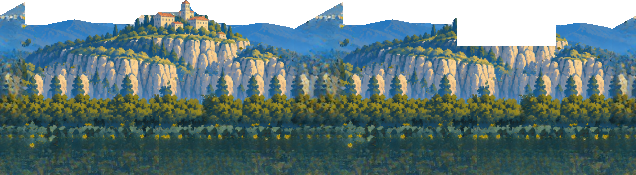
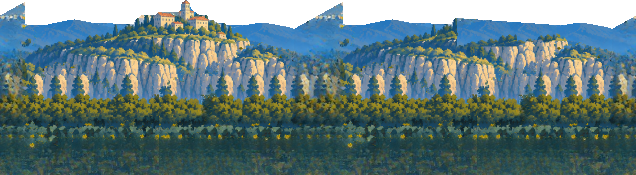
CV-04: a noite cai nas vistas pintadas e o longe sem marco segue a crista
O CI do PR chumbava no `make silhueta` (§80): à meia-noite, o luar azul
dos Enramados dava 3,9% contados, onde o limite é 0,5%. A vista pintada
para uma hora levava o ambiente a 1; agora leva o da noite com o peso da
noite (SceneryLight.night_weight: entra na segunda metade do crepúsculo e
sai na primeira da alvorada, como uma variante da noite). De dia e até
meio do crepúsculo continua com a luz que traz. À meia-noite: 0,026%. O
ambiente sai de SceneryLight.ambient_of, que o feed usa e o teste mede.

O portão lê o brilho onde o §80 diz saturação (desde o PR #53): com a
saturação, a main e este ramo chumbam os dois. Fica na Q-270, para um PR
à parte, que corrigir só o portão punha a main vermelha.

Na cópia do plano de longe sem o marco do reino, o contorno caía no fundo
da caixa do marco e deixava um rectângulo de céu (o castelo dos Enramados,
a quinta da Horta, a vila dos Portuários, a nuvem da Fenda). O contorno
passa agora de crista a crista; só os oito far.png mudam.

Claude-Session: https://claude.ai/code/session_01PaUCZftwTC8L8t2zebmcYB

Changed region(s): [[0.717, 0.0857, 0.8962, 0.2857]]

diff --git a/tools/owner_scenery/separate.py b/tools/owner_scenery/separate.py
@@ -265,9 +265,10 @@ def main():
         hole = L.dilate_mask(town, 4)
         b = behind[:, x0:x1]
         comp = np.where(a[..., None], rgb, b)
-        # the plane stays solid: its outline runs across where the town was, and what fills it
-        # is copied from the plane's own rock and woods, never from the sky
-        a2 = np.where(hole, L.silhouette(a & ~hole, 4000, None, L.GROUND + 24), a)
+        # the plane stays solid: its outline runs across where the town was, from the ridge on
+        # one side to the ridge on the other (not along the hole's floor, which left a box),
+        # and what fills it is copied from the plane's own rock and woods, never from the sky
+        a2 = np.where(hole, L.silhouette(a & ~hole.any(axis=0), 4000, None, L.GROUND + 24), a)
         todo = hole & a2
         filled = L.shift_fill(comp, todo, lama, ~(a & ~hole) & ~todo) if todo.any() else comp
         r2 = np.where(hole[..., None], filled, rgb)

diff --git a/docs/adr/0085-as-composicoes-do-dono-no-mundo.md b/docs/adr/0085-as-composicoes-do-dono-no-mundo.md
@@ -45,7 +45,8 @@ estação escolhem a variante; o porto, o lago e o rio ficam na água que o terr
    tapava continua o degradê da própria pintura, linha a linha), nuvens (0,07), longe
    (0,125) e meio (0,25) num laço escolhido onde as duas pontas casam e que leva os marcos do reino (o vulcão, o
    castelo, a vila do horizonte), cada um com um período próprio. O longe é opaco até ao chão e repete-se duas vezes por
-   laço: uma como pintada, outra sem a vila do horizonte, para a vila não se ver três vezes no mesmo ecrã. O meio é uma
+   laço: uma como pintada, outra sem a vila do horizonte, para a vila não se ver três vezes no mesmo ecrã; nessa, o
+   contorno do plano passa onde a vila estava de crista a crista, e não pelo fundo da caixa dela. O meio é uma
    parede de árvores onde a pintura o tem quase de ponta a ponta (os Enramados), e só o contorno do que lá está onde é
    esparso (uma árvore, uma cerca). O perto (0,5) leva a árvore ou o rochedo do primeiro plano e mostra-se uma vez por
    2560 px, com o meio da composição atrás da sede e as pontas fechadas. O chão (`under`, `terrain`) é o caminho, a cerca
@@ -53,7 +54,10 @@ estação escolhem a variante; o porto, o lago e o rio ficam na água que o terr
 3. **As variantes.** `OwnerScenery.weights` dá o peso de cada pintura agora: a da hora (o luar, a névoa da alvorada, as
    brasas) entra na segunda metade da fase de antes e sai na primeira da de depois; a da estação (a colheita, o
    outono, a geada) muda durante a alvorada do primeiro dia. As pintadas para uma hora já trazem a luz dela: desenham-se
-   num nó com o material `SceneryLight.PINTADA`, sem o ambiente da fase por cima, e só as luzes do mundo se somam.
+   num nó com o material `SceneryLight.PINTADA`, sem o ambiente da fase por cima, e as luzes do mundo somam-se — menos o
+   ambiente da noite, que lhes cai com o peso dela (`SceneryLight.night_weight`: entra na segunda metade do crepúsculo e
+   sai na primeira da alvorada, como uma variante da noite), porque a noite é castanha (§80, ADR 0011). Sem ele, o luar
+   pintado chumbava o `make silhueta` à meia-noite: 3,9% contados, onde o limite é 0,5% (o que o portão conta: Q-270).
 4. **Os sítios (`OwnerSites`, `SceneryMap.with_sites`).** A proposta da Q-259, com as três vistas aprovadas: o lago na
    água dos Enramados (a de casa e a dos segmentos de água), o porto na dos Portuários e o rio na da Bruma. O quadro de
    1280 px fica com a água pintada no x da fonte; se não cabe inteiro no troco, não se pinta e a água continua a do

diff --git a/docs/QUESTIONS.md b/docs/QUESTIONS.md
@@ -34,6 +34,12 @@
   primavera.
 - **Em aberto:** a maré e a chuva não são sistemas do jogo; aqui são só a hora e a estação. Se as queres ligadas a
   outra coisa (o tempo, a maré do §21), é design.
+- **A noite é castanha (§80, ADR 0011):** as variantes da noite são azuis — o luar —, e o `make silhueta` chumbava a
+  captura da meia-noite com 3,9% contados (o limite é 0,5%; à noite o frio é só da Podridão). Não se mexeu na regra nem
+  na pintura: com a noite, a vista pintada leva o ambiente da noite como o resto do mundo (`SceneryLight.night_weight`,
+  que entra na segunda metade do crepúsculo e sai na primeira da alvorada, como uma variante da noite). À meia-noite o
+  luar fica escuro e o portão conta 0,026%; de dia e até meio do crepúsculo a pintada continua com a luz que traz. Se
+  queres o luar azul, é uma exceção ao §80 — e vê antes a Q-270: o portão mede o brilho, não a saturação.
 - **Decide:** tu.
 
 ### Q-269 · Onde ficam o porto, o lago e o rio
@@ -43,6 +49,19 @@
   fica a água de antes.
 - **Em aberto:** a Q-259 perguntava também se a sede e as obras devem desviar-se do lago; não se mexeu no território.
   E a Horta não tem sítio: a pintura dela já traz o rio em baixo.
+- **Decide:** tu.
+
+### Q-270 · O portão das duas frias mede o brilho, e não a saturação
+- **Hoje:** `tools/check_silhueta.py` (desde o PR #53) lê `h, _, s = colorsys.rgb_to_hsv(...)`, e o `colorsys` devolve
+  matiz, saturação e valor, por esta ordem: o `s` é o brilho. O portão conta os píxeis azuis e violeta *claros* (valor
+  > 0,35), e não os *saturados* que a linha *Duas frias* do §80 escreve. Os números da Q-268 são esta contagem.
+- **Medido à meia-noite, com a saturação:** na `main` (os planos da ADR 0084), 19,9% do ecrã é frio e saturado (17,9%
+  sem os quase pretos, de valor ≤ 0,08); com as pinturas do dono, 31,0% (9,2% sem os quase pretos). As duas chumbam o
+  limite de 0,5%: a noite do jogo é azul-escura, e não castanha, desde antes desta entrega. O ambiente da noite escurece
+  o céu e os planos de fundo, mas um azul escurecido continua azul.
+- **Proposta:** corrigir a leitura num PR à parte e, com ela, decidir o que a noite faz ao céu e aos fundos — um ambiente
+  que tire a saturação, e não só o brilho — e se o quase preto fica fora da regra. Corrigir só o portão punha a `main`
+  vermelha, por isso não vai neste PR.
 - **Decide:** tu.
 
 ## Animais e criaturas animados — 15/10/2026 (ADR 0083)

diff --git a/docs/recovery/RETOMADA.md b/docs/recovery/RETOMADA.md
@@ -37,7 +37,7 @@ a cada construção._
 - **Dados** — `tools/csv_to_tres.gd --check` sem diferenças: 38 tabelas, 491 recursos gerados.
 - **Dossiê contra dados** — `tools/check_dossie_vs_csv.py` confere 212 números do dossiê contra as
   tabelas, e não há divergências. Eram 127 antes da Parte XIII.
-- **Inventário de testes** — 1943 casos, 2 saltados com a razão no próprio teste.
+- **Inventário de testes** — 1944 casos, 2 saltados com a razão no próprio teste.
   Esta contagem descreve a árvore; não afirma que uma execução passou.
 - **Última execução publicada** — gdUnit4 6.2.1, 1875 casos, 1873 a passar, 2 saltados;
   SHA `b419b6e2672ba7e779344034d448303c3da6b022`, CI

diff --git a/README.md b/README.md
@@ -83,7 +83,7 @@ servidor dedicado, clima completo e despertar social ficam em RG-24/RG-25.
 
 ## O estado, no dia zero
 
-- O projeto **abre, testa e exporta** em Godot 4.7.2: 1943 testes (2 saltados, cada um com a razão e o sistema que
+- O projeto **abre, testa e exporta** em Godot 4.7.2: 1944 testes (2 saltados, cada um com a razão e o sistema que
   falta escritos no próprio teste), e cada corrida verde do CI deixa o jogo exportado para **Linux, Windows e
   Web** — o de Linux é arrancado no próprio *job*, e o de Web serve-se de qualquer servidor estático.
 - A base de dados tem **38 tabelas** e 491 recursos com todos os números do dossiê, Parte XIII incluída; o que o

diff --git a/docs/backlog/CV-04.md b/docs/backlog/CV-04.md
@@ -2,7 +2,8 @@
 
 ```text
 Estado    feito — os 8 reinos, as 8 variantes, o porto, o lago e o rio com as 6 variações deles e as 2 transições;
-          o que o enchimento estimou, os mapeamentos de hora e estação e o lugar dos sítios esperam o dono (Q-267 a Q-269)
+          o que o enchimento estimou, os mapeamentos de hora e estação, o lugar dos sítios e o que o portão das duas
+          frias mede esperam o dono (Q-267 a Q-270)
 ```
 
 - **Pedido:** «Quero que implemente esses dois arquivos .zip que te enviei, o do google drive é essencial que aplique»
